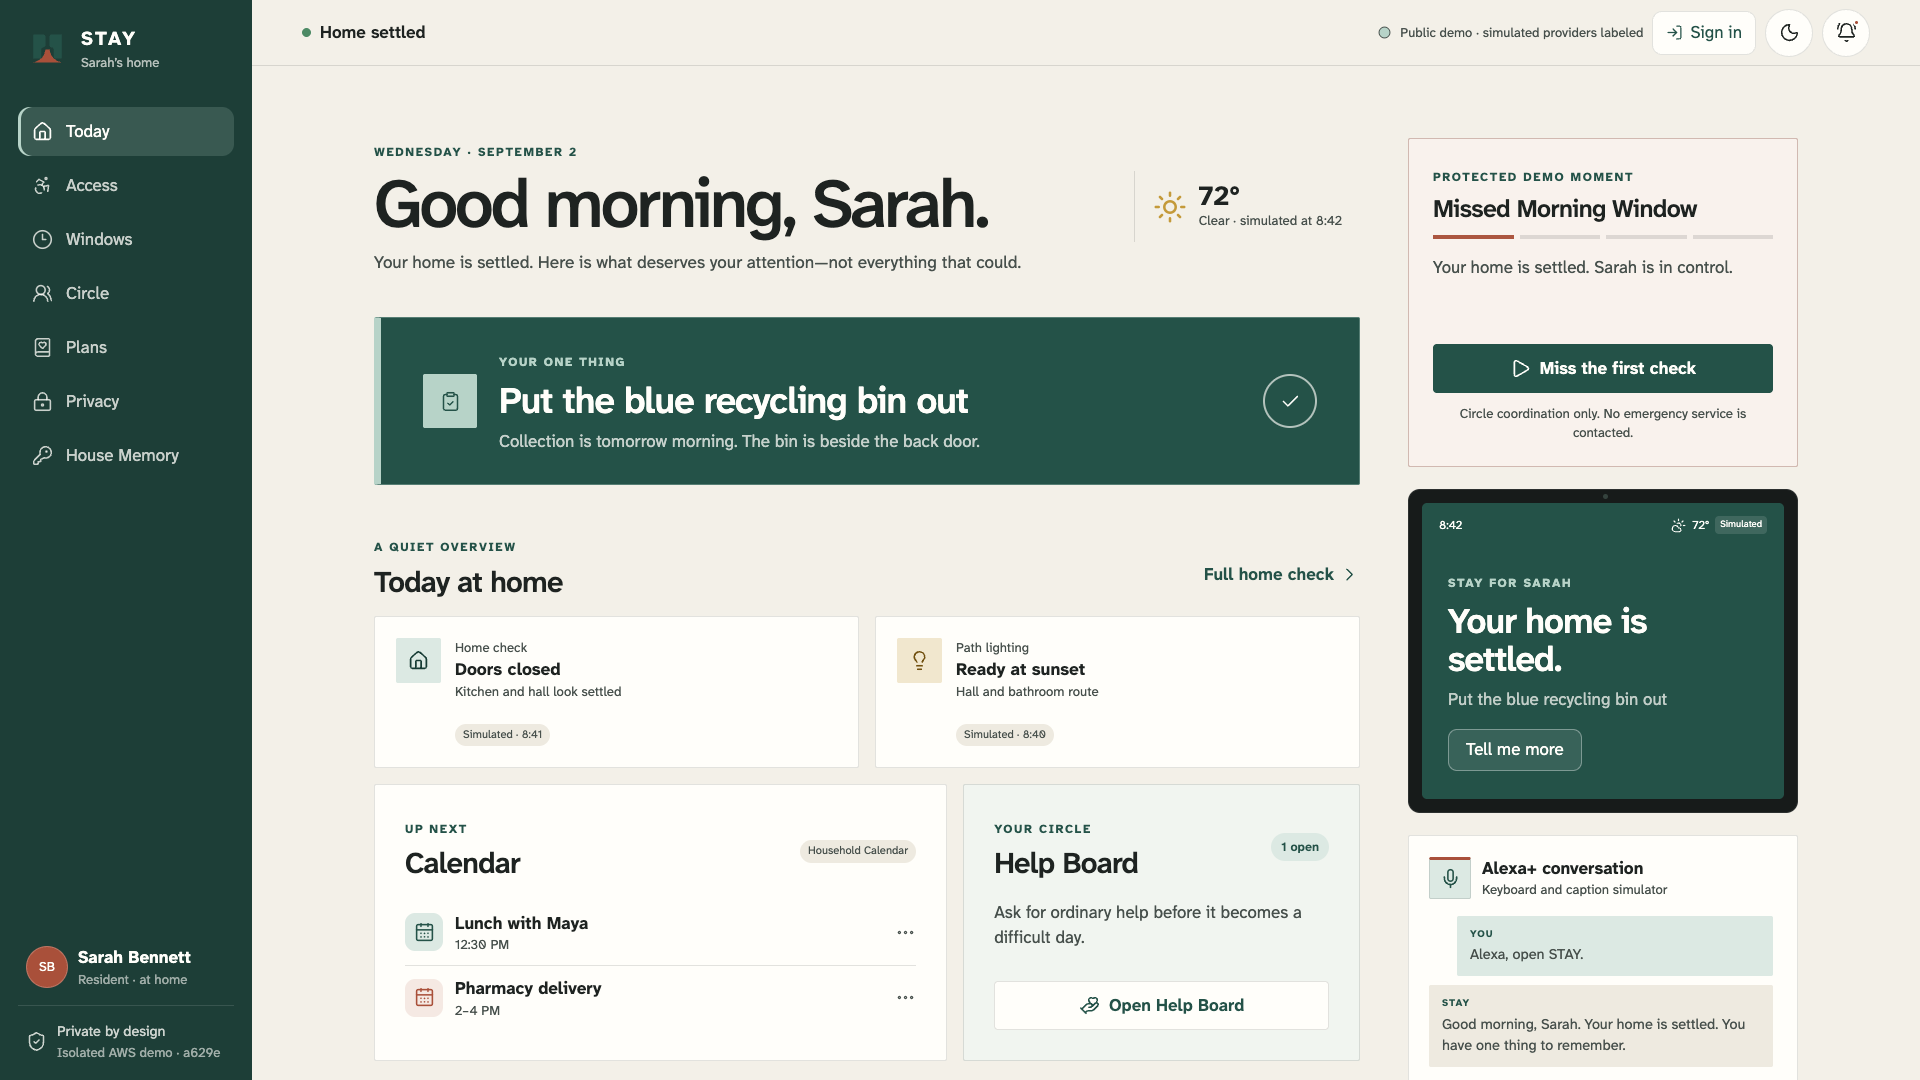
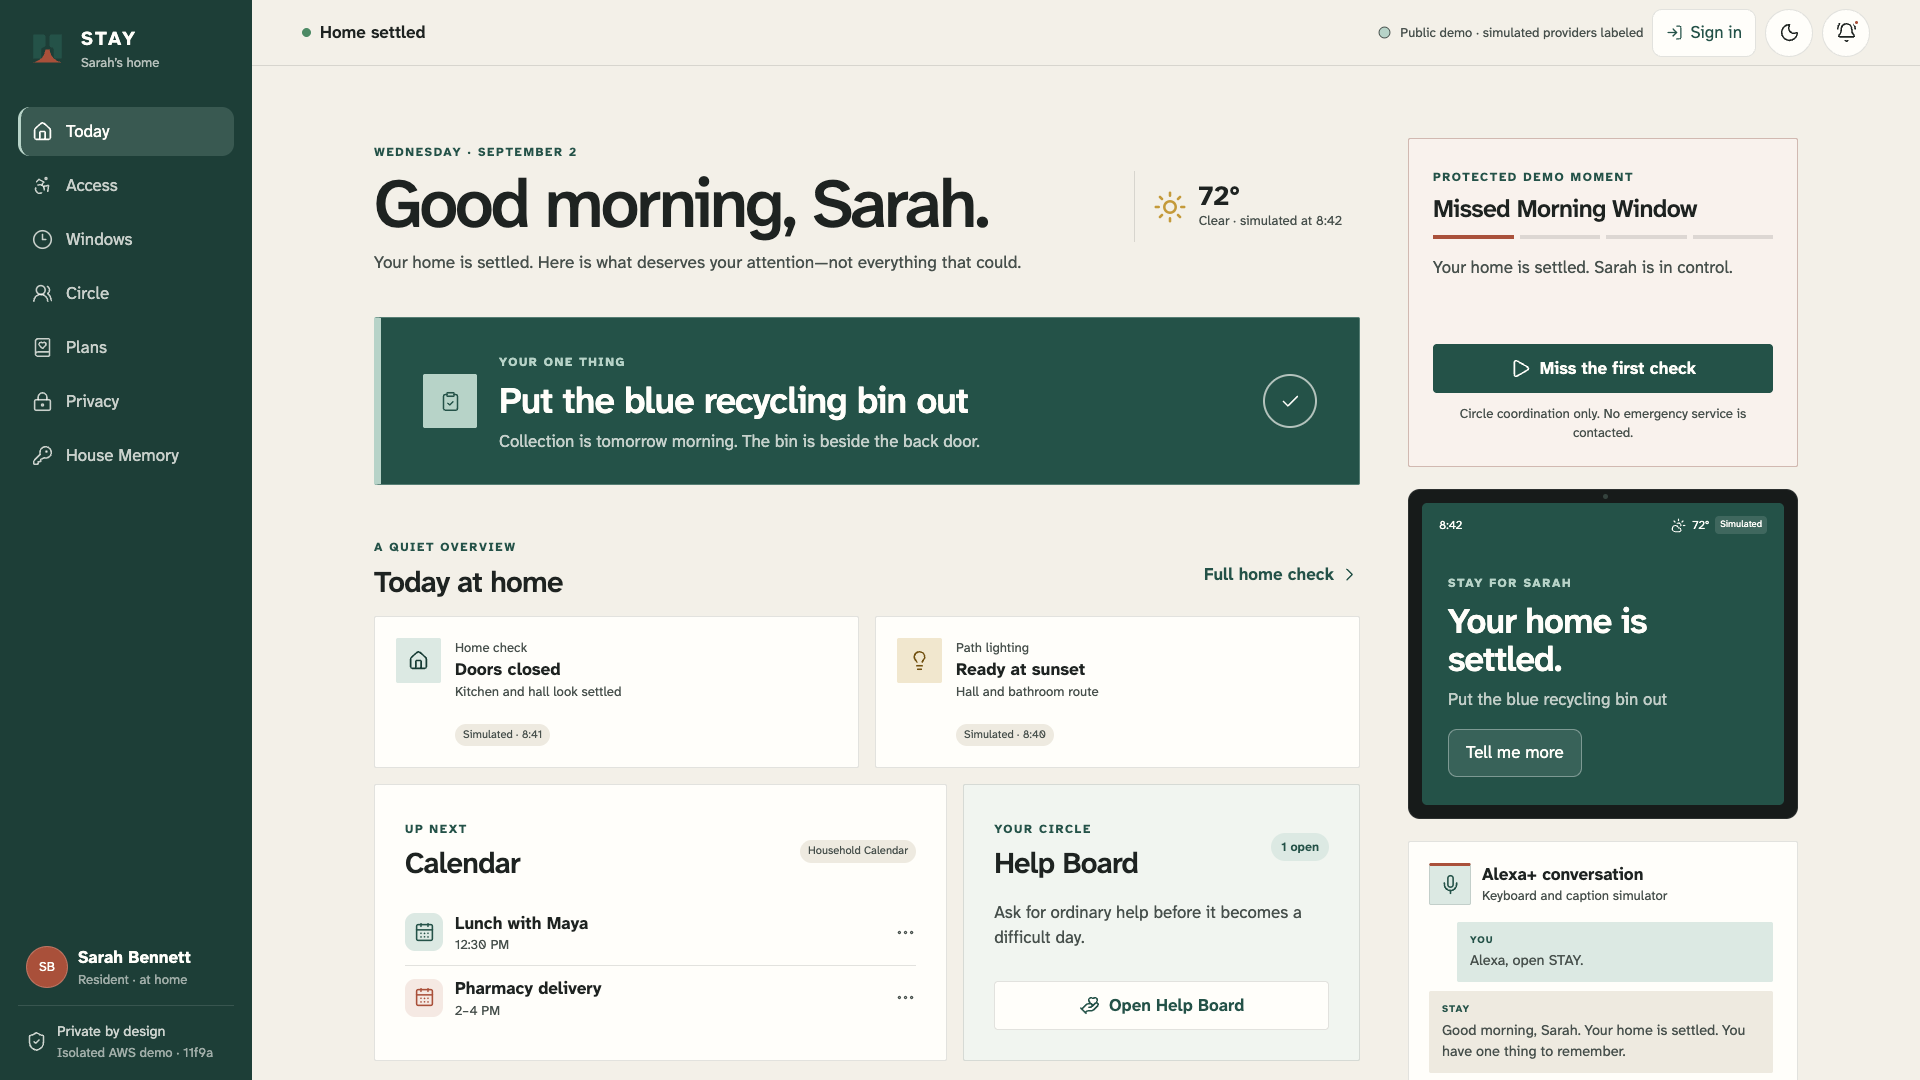
Refresh deployed submission captures

Changed region(s): [[0.75, 0.7944, 0.9375, 1.0], [0.7188, 0.7333, 0.9375, 0.7639], [0.75, 0.6722, 0.8125, 0.7028]]

diff --git a/docs/release-evidence.md b/docs/release-evidence.md
@@ -5,7 +5,7 @@
 | Local deterministic domain | Unit tests for legal/illegal transitions, race, duplicate, stale version, DST, privacy, notification dedupe | Passed locally on 2026-09-02                                                                                                                                                                                                                                                                                                                                                                                                                                                                                                                                                                                                          |
 | Contracts                  | Generated OpenAPI/client types; MCP origin, initialize, schema, and error tests                             | Passed locally on 2026-09-02                                                                                                                                                                                                                                                                                                                                                                                                                                                                                                                                                                                                          |
 | Browser UX                 | Production build; Playwright/axe across target viewports and input modes                                    | Local 36/36 scenarios passed on 2026-09-03. After deployment, both `https://saystay.site` and the execute-api fallback passed all 32 applicable scenarios serially across desktop, mobile, Echo Show 8, and Echo Show 15; four route-mocked contract cases are intentionally local-only. The matrix includes 48 × 48 target coverage across resident/Circle surfaces, system-aware persistent themes, activated skip navigation, RTL mobile-shell checks, protected flow, emergency boundary, adaptive access, ordinary help, privacy, resident check-in, responsive header/updates panel, keyboard, and serious/critical axe checks. |
-| Submission media           | Direct product screenshots, link preview, final audible demo, captions, and thumbnail with checksums        | Seven screenshots recaptured from the public AWS demo after the responsive-header deployment, including the opened mobile updates panel; approved 1200×630 share preview packaged; 170-second H.264/AAC master, upload-identical copy, measured captions, and real-product thumbnail pass automated checksums and media probes                                                                                                                                                                                                                                                                                                        |
+| Submission media           | Direct product screenshots, link preview, final audible demo, captions, and thumbnail with checksums        | Seven screenshots and the real-product thumbnail were refreshed from the public AWS demo after the responsive-accessibility deployment, including the opened mobile updates panel; approved 1200×630 share preview packaged; 170-second H.264/AAC master, upload-identical copy, and measured captions retain their verified checksums and media probes                                                                                                                                                                                                                                                                               |
 | Clean CI                   | Public GitHub Actions run on the release-candidate implementation                                           | [Passed on deployed fallback-preservation commit `145b78a`](https://github.com/AmirmLotfy/stay/actions/runs/33693048920), including 36/36 Playwright scenarios                                                                                                                                                                                                                                                                                                                                                                                                                                                                        |
 | CDK                        | `cdk synth --strict`, cdk-nag report, reviewed `cdk diff`                                                   | Strict synth/nag and infrastructure tests passed. The deployed email-authentication diff added the SES domain identity and narrowed its notification permission. A separately reviewed CloudFront upgrade now preserves `v1/*`, `mcp`, and `.well-known/*` through uncached API behaviors, but its 2026-09-03 deployment retry was provider-rejected and rolled back. The live stack is `UPDATE_ROLLBACK_COMPLETE` with protection enabled and public routes reverified. AWS account-verification case `178838741100092` is open for the CloudFront 403 and Bedrock authorization gate.                                               |
 | AWS behavior               | DynamoDB transaction/Stream, Scheduler, EventBridge, WebSocket, Cognito, DLQ, X-Ray                         | Deployed: TTL-isolated session, versioned writes/outbox, EventBridge, WebSocket event/reconcile, Cognito PKCE, encrypted table/logs/queues, metric, alarms, and zero DLQ backlog verified live. Rapid access updates and the Help Board accept/complete lifecycle passed against DynamoDB on the public domain.                                                                                                                                                                                                                                                                                                                       |

diff --git a/docs/submission-readiness-audit.md b/docs/submission-readiness-audit.md
@@ -21,7 +21,7 @@ Audited on 2026-09-03 Cairo time against the live Devpost project, the live Buil
 | MCP boundary               | PASS                  | `https://saystay.site/mcp` returned the expected HTTP 401 without a bearer token; protocol, origin, scope, initialize, list, call, and error behavior are covered by the release tests.                                                                                                                                                                                                                                                                                                                                                                                                                                                                                    |
 | OAuth metadata             | PASS                  | `https://saystay.site/.well-known/oauth-protected-resource/mcp` returned HTTP 200.                                                                                                                                                                                                                                                                                                                                                                                                                                                                                                                                                                                         |
 | Protected demo flow        | PASS                  | Local CI and the deployed serial matrix cover two missed checks, Sarah asks Tom, Tom accepts, and the shared “Tom is on the way.” state.                                                                                                                                                                                                                                                                                                                                                                                                                                                                                                                                   |
-| Screenshots                | PASS                  | Seven real-product captures are tracked: five 1920×1080 desktop views, one 390×2625 mobile full-page view, and one 390×844 mobile Updates-panel view.                                                                                                                                                                                                                                                                                                                                                                                                                                                                                                                      |
+| Screenshots                | PASS                  | Seven real-product captures were refreshed from the responsive public deployment: five 1920×1080 desktop views, one 390×2631 mobile full-page view, and one 390×844 mobile Updates-panel view.                                                                                                                                                                                                                                                                                                                                                                                                                                                                             |
 | Higgsfield logo            | PASS                  | Selected Recraft V4.1 job `9bcd9a39-52a7-457c-96b2-d3e23ce242cc`; deployed vector and 2048 px export are provenance-locked.                                                                                                                                                                                                                                                                                                                                                                                                                                                                                                                                                |
 | Higgsfield narration       | PASS                  | Two Faye / Seed Audio 1.0 results were joined without time stretching; model, result IDs, cost, source, and checksum are recorded.                                                                                                                                                                                                                                                                                                                                                                                                                                                                                                                                         |
 | Higgsfield music           | PASS                  | Sonilo Music job `b36c45f2-086d-40f2-8862-b356693bc143`; no vocals; source, cost, and checksum are recorded.                                                                                                                                                                                                                                                                                                                                                                                                                                                                                                                                                               |
